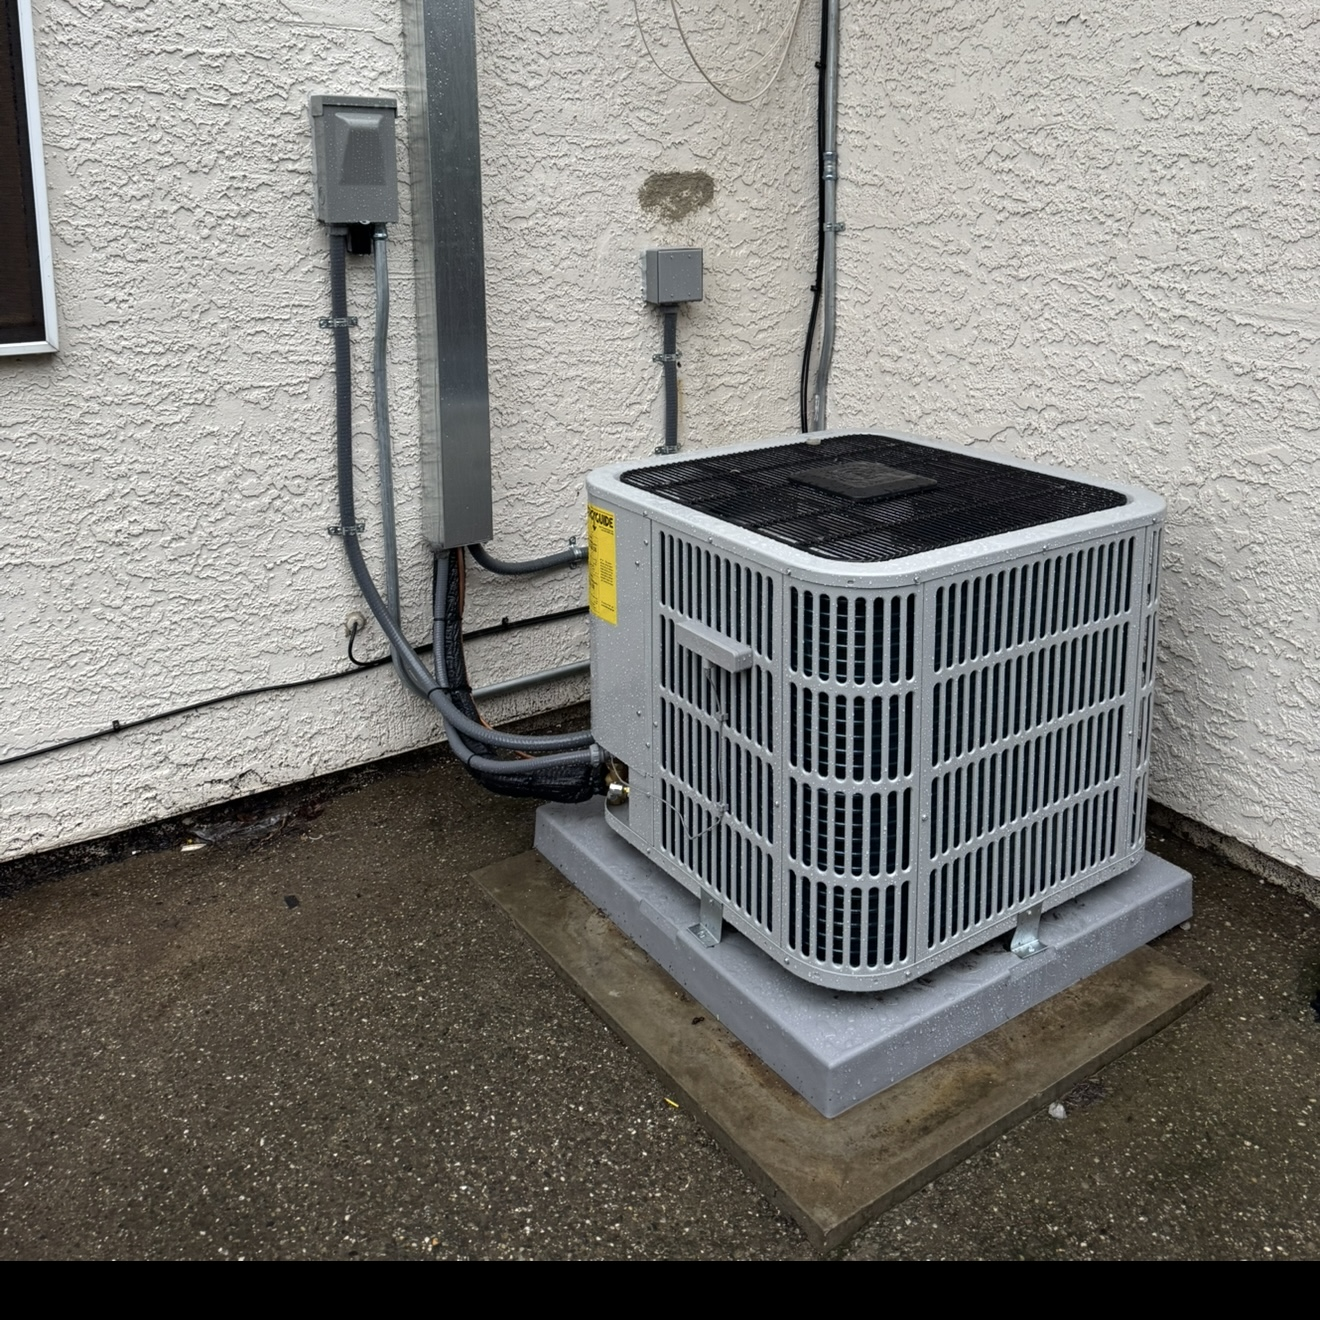
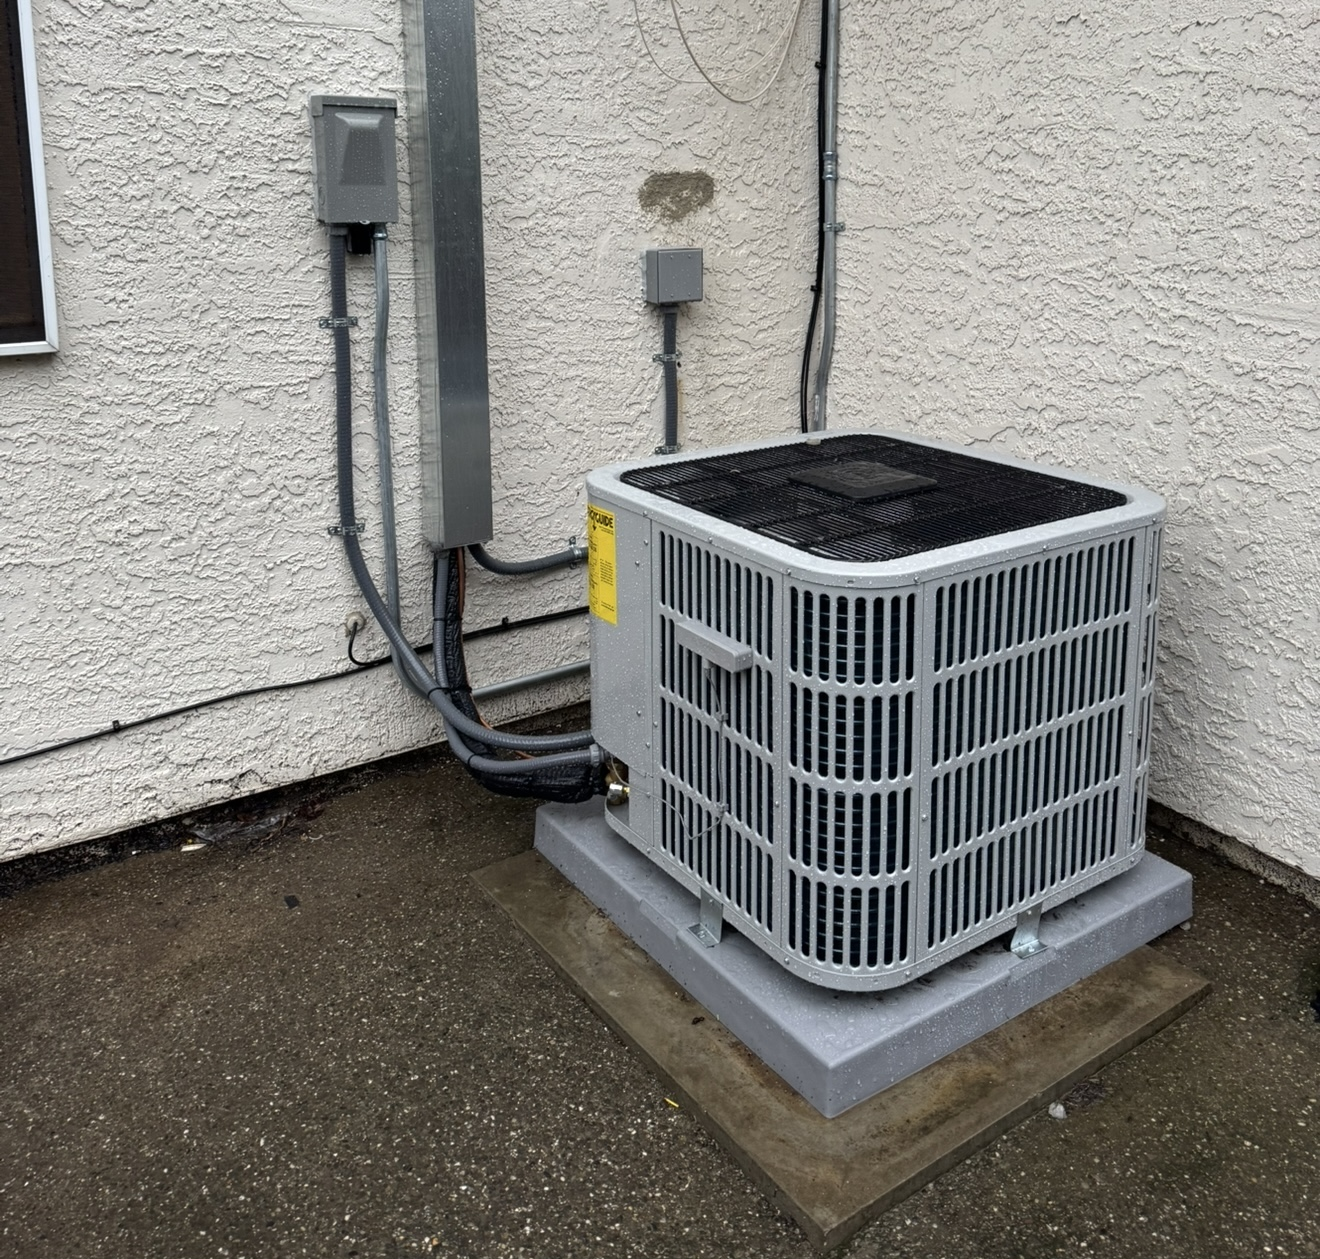
added updates

diff --git a/index.html b/index.html
@@ -287,6 +287,7 @@
       <!-- running projects-->
       <section class="bg-gray-lighter section-md text-center">
         <div class="container-fluid container-flex">
+                    <h4 class="heading-decorated">Previous Projects</h4>
           <div class="row no-gutters" data-lightgallery="group">
             <div class="col-md-6 col-lg-4 col-xl-3">
               <!-- Thumb creative-->
@@ -299,7 +300,6 @@
                   <div class="thumb-creative__back"> 
                     <figure class="thumb-creative__image-wrap"><img class="thumb-creative__image" src="images/IMG_9001.jpg" alt="" width="652" height="652"/>
                     </figure>
-
                   </div>
                 </div>
               </div>
@@ -309,11 +309,11 @@
               <div class="thumb-creative thumb-creative_no-cover">
                 <div class="thumb-creative__inner">
                   <div class="thumb-creative__front">
-                    <figure class="thumb-creative__image-wrap"><img class="thumb-creative__image" src="images/project-2-652x491.jpg" alt="" width="652" height="652"/>
+                    <figure class="thumb-creative__image-wrap"><img class="thumb-creative__image" src="images/IMG_9002.PNG" alt="" width="652" height="652"/>
                     </figure>
                   </div>
                   <div class="thumb-creative__back">
-                    <figure class="thumb-creative__image-wrap"><img class="thumb-creative__image" src="images/project-2-652x491.jpg" alt="" width="652" height="652"/>
+                    <figure class="thumb-creative__image-wrap"><img class="thumb-creative__image" src="images/IMG_9002.PNG" alt="" width="652" height="652"/>
                     </figure>
                     <div class="thumb-creative__content">
                       <ul class="list-inline-tag">
@@ -331,11 +331,11 @@
               <div class="thumb-creative thumb-creative_no-cover">
                 <div class="thumb-creative__inner">
                   <div class="thumb-creative__front">
-                    <figure class="thumb-creative__image-wrap"><img class="thumb-creative__image" src="images/project-3-652x491.jpg" alt="" width="652" height="491"/>
+                    <figure class="thumb-creative__image-wrap"><img class="thumb-creative__image" src="images/IMG_8969.jpg" alt="" width="652" height="652"/>
                     </figure>
                   </div>
                   <div class="thumb-creative__back">
-                    <figure class="thumb-creative__image-wrap"><img class="thumb-creative__image" src="images/project-3-652x491.jpg" alt="" width="652" height="491"/>
+                    <figure class="thumb-creative__image-wrap"><img class="thumb-creative__image" src="images/IMG_8969.jpg" alt="" width="652" height="652"/>
                     </figure>
                     <div class="thumb-creative__content">
                       <ul class="list-inline-tag">
@@ -353,11 +353,11 @@
               <div class="thumb-creative thumb-creative_no-cover">
                 <div class="thumb-creative__inner">
                   <div class="thumb-creative__front">
-                    <figure class="thumb-creative__image-wrap"><img class="thumb-creative__image" src="images/project-4-652x491.jpg" alt="" width="652" height="491"/>
+                    <figure class="thumb-creative__image-wrap"><img class="thumb-creative__image" src="images/IMG_9003.PNG" alt="" width="652" height="652"/>
                     </figure>
                   </div>
                   <div class="thumb-creative__back">
-                    <figure class="thumb-creative__image-wrap"><img class="thumb-creative__image" src="images/project-4-652x491.jpg" alt="" width="652" height="491"/>
+                    <figure class="thumb-creative__image-wrap"><img class="thumb-creative__image" src="images/IMG_9003.PNG" alt="" width="652" height="652"/>
                     </figure>
                     <div class="thumb-creative__content">
                       <ul class="list-inline-tag">
@@ -375,11 +375,11 @@
               <div class="thumb-creative thumb-creative_no-cover">
                 <div class="thumb-creative__inner">
                   <div class="thumb-creative__front">
-                    <figure class="thumb-creative__image-wrap"><img class="thumb-creative__image" src="images/project-5-652x491.jpg" alt="" width="652" height="491"/>
+                    <figure class="thumb-creative__image-wrap"><img class="thumb-creative__image" src="images/IMG_8995.jpg" alt="" width="652" height="652"/>
                     </figure>
                   </div>
                   <div class="thumb-creative__back">
-                    <figure class="thumb-creative__image-wrap"><img class="thumb-creative__image" src="images/project-5-652x491.jpg" alt="" width="652" height="491"/>
+                    <figure class="thumb-creative__image-wrap"><img class="thumb-creative__image" src="images/IMG_8995.jpg" alt="" width="652" height="652"/>
                     </figure>
                     <div class="thumb-creative__content">
                       <ul class="list-inline-tag">
@@ -397,11 +397,11 @@
               <div class="thumb-creative thumb-creative_no-cover">
                 <div class="thumb-creative__inner">
                   <div class="thumb-creative__front">
-                    <figure class="thumb-creative__image-wrap"><img class="thumb-creative__image" src="images/project-6-652x491.jpg" alt="" width="652" height="491"/>
+                    <figure class="thumb-creative__image-wrap"><img class="thumb-creative__image" src="images/IMG_8977.jpg" alt="" width="652" height="652"/>
                     </figure>
                   </div>
                   <div class="thumb-creative__back">
-                    <figure class="thumb-creative__image-wrap"><img class="thumb-creative__image" src="images/project-6-652x491.jpg" alt="" width="652" height="491"/>
+                    <figure class="thumb-creative__image-wrap"><img class="thumb-creative__image" src="images/IMG_8977.jpg" alt="" width="652" height="652"/>
                     </figure>
                     <div class="thumb-creative__content">
                       <ul class="list-inline-tag">
@@ -419,11 +419,11 @@
               <div class="thumb-creative thumb-creative_no-cover">
                 <div class="thumb-creative__inner">
                   <div class="thumb-creative__front">
-                    <figure class="thumb-creative__image-wrap"><img class="thumb-creative__image" src="images/project-7-652x491.jpg" alt="" width="652" height="491"/>
+                    <figure class="thumb-creative__image-wrap"><img class="thumb-creative__image" src="images/IMG_8997.jpg" alt="" width="652" height="652"/>
                     </figure>
                   </div>
                   <div class="thumb-creative__back">
-                    <figure class="thumb-creative__image-wrap"><img class="thumb-creative__image" src="images/project-7-652x491.jpg" alt="" width="652" height="491"/>
+                    <figure class="thumb-creative__image-wrap"><img class="thumb-creative__image" src="images/IMG_8997.jpg" alt="" width="652" height="652"/>
                     </figure>
                     <div class="thumb-creative__content">
                       <ul class="list-inline-tag">
@@ -441,11 +441,11 @@
               <div class="thumb-creative thumb-creative_no-cover">
                 <div class="thumb-creative__inner">
                   <div class="thumb-creative__front">
-                    <figure class="thumb-creative__image-wrap"><img class="thumb-creative__image" src="images/project-8-652x491.jpg" alt="" width="652" height="491"/>
+                    <figure class="thumb-creative__image-wrap"><img class="thumb-creative__image" src="images/IMG_8996.jpg" alt="" width="652" height="652"/>
                     </figure>
                   </div>
                   <div class="thumb-creative__back">
-                    <figure class="thumb-creative__image-wrap"><img class="thumb-creative__image" src="images/project-8-652x491.jpg" alt="" width="652" height="491"/>
+                    <figure class="thumb-creative__image-wrap"><img class="thumb-creative__image" src="images/IMG_8996.jpg" alt="" width="652" height="652"/>
                     </figure>
                     <div class="thumb-creative__content">
                       <ul class="list-inline-tag">
@@ -458,8 +458,16 @@
                 </div>
               </div>
             </div>
+
+
           </div>
+          
         </div>
+            <div class="row mt-4">
+      <div class="col-12 text-center">
+        <a class="button button-primary" href="projects.html">See More</a>
+      </div>
+    </div>
       </section>
       <!-- get a quote-->
       <section class="object-wrap">

diff --git a/css/style.css b/css/style.css
@@ -2391,14 +2391,14 @@ figure img {
 }
 
 .thumb-creative__image {
-	position: absolute;
-	top: 50%;
-	left: 50%;
-	transform: translate(-50%, -50%);
-	min-width: 101%;
-	min-height: 100%;
-	max-width: none;
-	width: auto;
+	position: static;
+	transform: none;
+	min-width: auto;
+	min-height: auto;
+	max-width: 100%;
+	width: 100%;
+	height: auto;
+	object-fit: contain;
 }
 
 .thumb-creative__front,
@@ -2595,6 +2595,46 @@ figure img {
 	.thumb-creative .thumb-creative__content {
 		min-height: 360px;
 	}
+}
+
+@media (max-width: 767px) {
+  /* Hide the content block on mobile */
+  .thumb-creative__content {
+    display: none !important;
+  }
+
+  /* Make the container show only the front image */
+  .thumb-creative__back {
+    display: none !important;
+  }
+
+  .thumb-creative__front {
+    display: block !important;
+  }
+
+  /* Ensure the image wraps in a square shape */
+  .thumb-creative__image-wrap {
+    padding-bottom: 100%; /* Keeps aspect ratio square */
+    position: relative;
+    height: 0;
+  }
+
+  .thumb-creative__image {
+    position: absolute;
+    top: 50%;
+    left: 50%;
+    width: auto;
+    height: 100%;
+    transform: translate(-50%, -50%);
+    object-fit: cover;
+  }
+
+  /* Also reset any 3D/transform effects that may interfere */
+  .thumb-creative__inner,
+  .thumb-creative {
+    transform: none !important;
+    perspective: none !important;
+  }
 }
 
 .thumbnail-classic {
